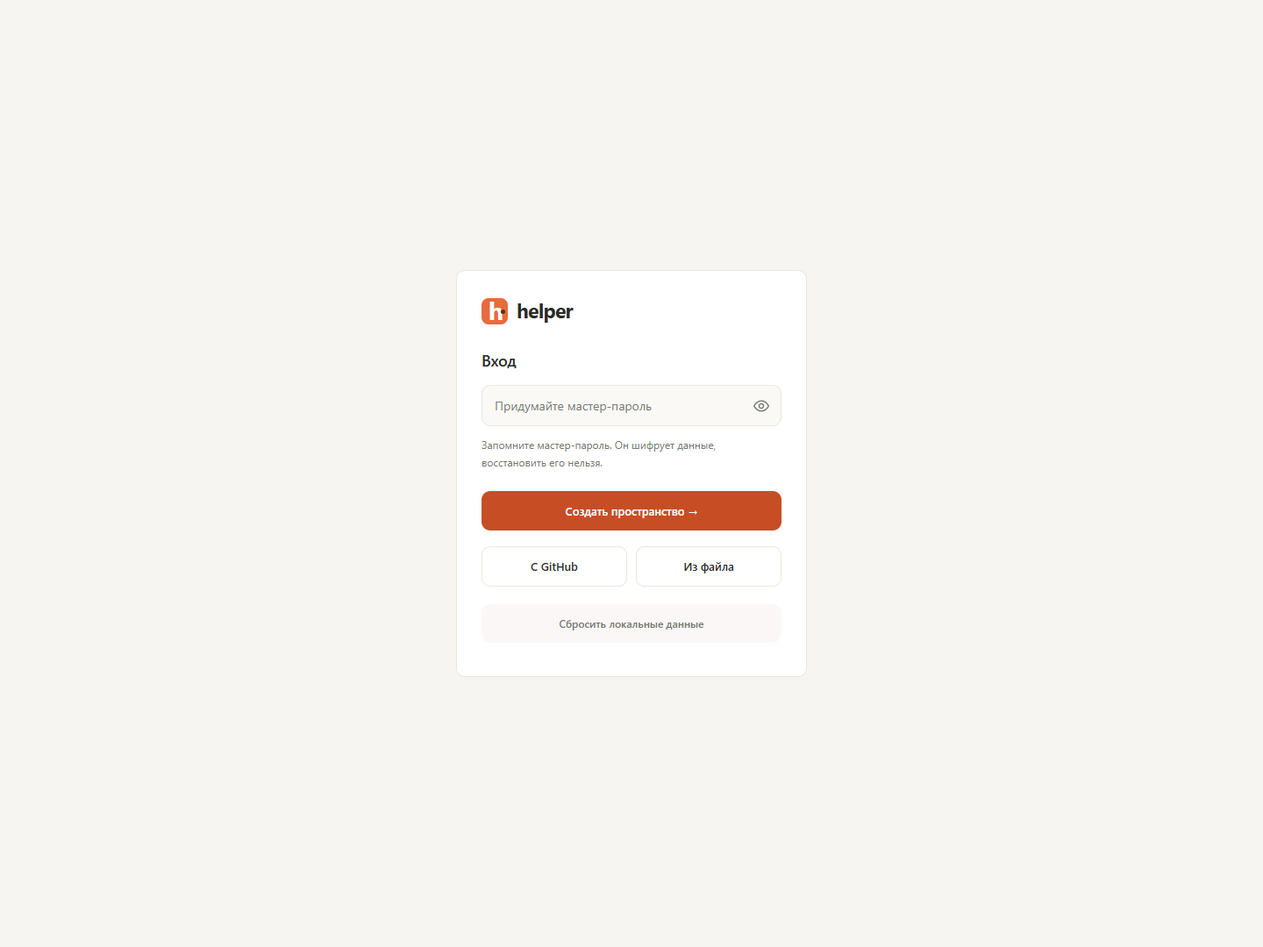
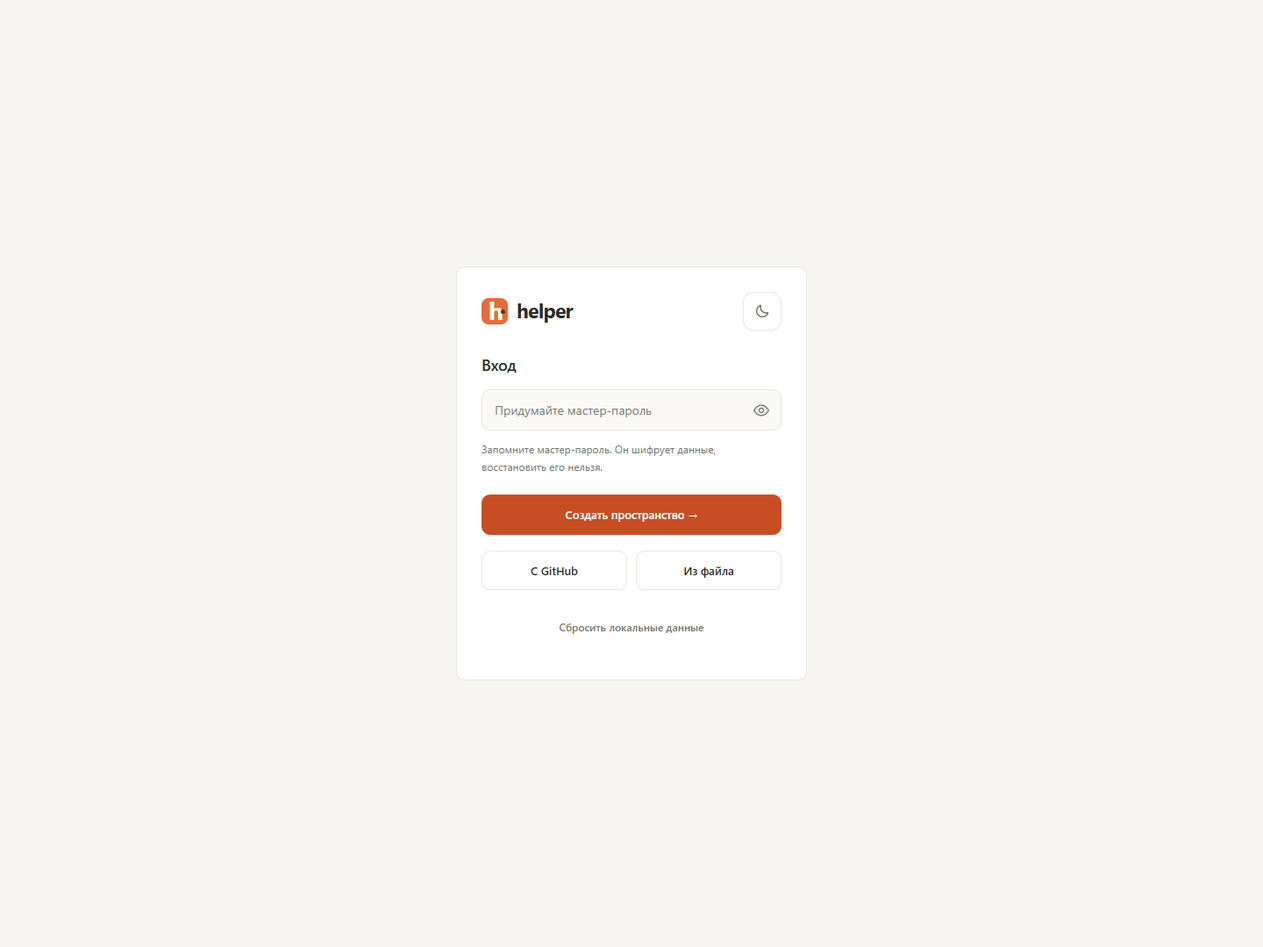
Make iPhone actions visible and expose persistent dark theme
Put health capture first on mobile, move task input before the list, put the shift calendar before optional settings, add direct expense/income entry buttons, and keep Settings save visible while scrolling. Remove dock destinations duplicated in the mobile menu and reset navigation scroll immediately.

Expose light/dark/system themes in the header and menu, apply preferences before first paint, increase primary touch targets, use iOS system typography, respect safe-area insets and hide the dock when the keyboard takes screen space.

Validated: 27 unit tests, Chromium/WebKit mobile workflows and theme persistence/system changes, 52 responsive route checks plus 39 dark mobile route checks, and cached 3.2.1-to-3.3 upgrade preserving encrypted data. Physical iPhone keyboard behavior remains a device check.

diff --git a/workspace.js b/workspace.js
@@ -22,22 +22,52 @@ let taskQuery = '';
 function workspaceHeader(id) {
     const [title] = workspacePages[id];
     const parent = id === 'food-page' || id === 'profile-page' ? ['health-page','Здоровье'] : id === 'add-vault-page' ? ['vault-page','Личный сейф'] : null;
-    return `<header class="page-heading"><div>${parent ? `<button class="parent-link" onclick="showSection('${parent[0]}')">‹ ${parent[1]}</button>` : ''}<h1 tabindex="-1">${title}</h1></div><div class="heading-actions">${id === 'dashboard-page' ? '<span class="today-chip" id="helper-greeting"></span>' : ''}<button class="icon-button mobile-search" aria-label="Поиск" onclick="openCommandPalette()">${icon('search')}</button></div></header>`;
+    return `<header class="page-heading"><div>${parent ? `<button class="parent-link" onclick="showSection('${parent[0]}')">‹ ${parent[1]}</button>` : ''}<h1 tabindex="-1">${title}</h1>${id === 'dashboard-page' ? '<span class="today-chip" id="helper-greeting"></span>' : ''}</div><div class="heading-actions"><button class="icon-button theme-toggle" data-theme-toggle aria-label="Включить тёмную тему" onclick="toggleTheme()">${icon('moon')}</button><button class="icon-button mobile-search" aria-label="Поиск" onclick="openCommandPalette()">${icon('search')}</button></div></header>`;
 }
 
 function mountWorkspace() {
-    document.getElementById('more-page').insertAdjacentHTML('beforeend', `<nav class="section-menu" aria-label="Все разделы">${[...helperRoutes,['food-page','Питание','food'],['profile-page','Цели здоровья','activity'],['export-page','Отчёты','chart'],['settings-page','Настройки','settings']].map(([id,label,glyph]) => `<button onclick="showSection('${id}')">${icon(glyph)}<span>${label}</span>${icon('arrow')}</button>`).join('')}<button onclick="lockVault()">${icon('lock')}<span>Заблокировать</span></button></nav>`);
+    document.getElementById('more-page').insertAdjacentHTML('beforeend', `<nav class="section-menu" aria-label="Дополнительные разделы">${[['settings-page','Настройки','settings'],helperRoutes[4],['food-page','Питание','food'],['profile-page','Цели здоровья','activity'],helperRoutes[5],['export-page','Отчёты','chart'],helperRoutes[6]].map(([id,label,glyph]) => `<button onclick="showSection('${id}')">${icon(glyph)}<span>${label}</span>${icon('arrow')}</button>`).join('')}<button onclick="lockVault()">${icon('lock')}<span>Заблокировать</span></button></nav>`);
     document.body.insertAdjacentHTML('beforeend', `<dialog id="metric-dialog" class="metric-dialog" aria-labelledby="metric-title"><form id="metric-form" onsubmit="saveMetricDialog(event)"><div class="section-top"><h2 id="metric-title">Вода</h2><button type="button" class="icon-button" aria-label="Закрыть" onclick="document.getElementById('metric-dialog').close()">${icon('close')}</button></div><p id="metric-date" class="helper-hint"></p><label id="metric-label" for="metric-amount">Количество, мл</label><input id="metric-amount" type="number" min="1" step="1" inputmode="numeric" required oninput="updateMetricPresets()"><div id="metric-presets" class="metric-presets" role="group" aria-label="Быстрый выбор количества"></div><p id="metric-error" class="food-status is-error" role="status"></p><button type="submit" class="btn">Добавить</button></form></dialog>`);
     for (const id of Object.keys(workspacePages)) {
         const page = document.getElementById(id);
         if (page) page.insertAdjacentHTML('afterbegin', workspaceHeader(id));
     }
+    document.querySelector('#more-page .page-heading').insertAdjacentHTML('afterend', `<section class="card theme-picker"><h2>Тема</h2><div class="segmented-control" role="group" aria-label="Оформление приложения"><button data-theme-choice="light" onclick="setAppearance('theme','light')">Светлая</button><button data-theme-choice="dark" onclick="setAppearance('theme','dark')">Тёмная</button><button data-theme-choice="system" onclick="setAppearance('theme','system')">Системная</button></div></section>`);
+    document.querySelector('.auth-wordmark').insertAdjacentHTML('beforeend', `<button class="icon-button theme-toggle" data-theme-toggle aria-label="Включить тёмную тему" onclick="toggleTheme()">${icon('moon')}</button>`);
+    // Keep the existing forms and mutation functions; only move their entry points.
+    const budget = document.getElementById('budget-page');
+    const entry = document.getElementById('tx-amount').closest('.card'); entry.id = 'budget-entry-card';
+    budget.querySelector('.page-heading').insertAdjacentHTML('afterend', `<div class="budget-entry-actions"><button class="btn" onclick="focusBudgetEntry('expense')">${icon('plus')} Расход</button><button class="btn btn-secondary" onclick="focusBudgetEntry('income')">${icon('plus')} Доход</button></div>`);
+    const calendar = document.getElementById('calendar-page');
+    const calendarCard = document.getElementById('cal-grid').closest('.card');
+    calendar.querySelector('.page-heading').after(calendarCard);
+    calendarCard.insertAdjacentHTML('beforeend','<p class="calendar-help">Нажмите на дату, чтобы изменить смену.</p>');
+    for (const [field,title] of [['t-1','Шаблон смен'],['rate-day','Ставки и расчёт дохода']]) {
+        const card = document.getElementById(field).closest('.card');
+        const details = document.createElement('details'); details.className = 'card secondary-settings';
+        details.innerHTML = `<summary>${title}</summary>`;
+        card.querySelector('h2').remove();
+        const content = document.createElement('div'); content.className = 'details-content';
+        while(card.firstChild) content.append(card.firstChild);
+        details.append(content);card.replaceWith(details);
+    }
+    const history = document.getElementById('daily-history-list').closest('.card');
+    history.classList.add('health-history');
+    document.getElementById('health-page').querySelector('.card').after(history);
+    document.querySelector('.focus-card .section-top').after(document.querySelector('.focus-form'));
+    const saveSettingsButton = document.querySelector('#settings-page > button[onclick="saveSettings()"]');
+    saveSettingsButton.classList.add('settings-save');
+    document.querySelector('#settings-page .page-heading').after(saveSettingsButton);
     document.querySelectorAll('[data-icon]').forEach(node => { node.innerHTML = icon(node.dataset.icon); });
     document.getElementById('planner-page').querySelector('.card').insertAdjacentHTML('afterbegin', `
         <div class="section-top"><h2>Мой список</h2><span class="count-badge" id="task-count">0</span></div>
         <div class="task-toolbar"><div class="segmented-control" aria-label="Фильтр задач">
         <button data-task-filter="active" onclick="setTaskFilter('active')">В работе</button><button data-task-filter="done" onclick="setTaskFilter('done')">Готово</button><button data-task-filter="all" onclick="setTaskFilter('all')">Все</button></div>
         <input id="task-search" type="search" placeholder="Найти задачу" aria-label="Найти задачу" oninput="taskQuery=this.value;renderPlanner()"></div>`);
+    const taskEntry = document.getElementById('task-input').closest('.quick-grid');
+    taskEntry.classList.add('task-entry');
+    document.querySelector('#planner-page .section-top').after(taskEntry);
+    taskEntry.querySelector('button').setAttribute('aria-label','Добавить задачу');
     document.querySelectorAll('.page > .btn').forEach(button => {
         if (/^Назад/.test(button.textContent.trim())) button.classList.add('back-link');
     });
@@ -52,6 +82,12 @@ function mountWorkspace() {
     });
     document.querySelectorAll('.input-action-btn').forEach(button => { button.innerHTML = icon('eye'); });
     document.querySelector('#add-vault-page button[onclick="showSection(\'misc-page\')"]')?.setAttribute('onclick', "showSection('vault-page')");
+}
+
+function focusBudgetEntry(type) {
+    setBudgetTxType(type);
+    document.getElementById('budget-entry-card').scrollIntoView({block:'start',behavior:'instant'});
+    document.getElementById('tx-amount').focus({preventScroll:true});
 }
 
 function getWorkspaceSummary(source, date) {

diff --git a/experience.css b/experience.css
@@ -98,11 +98,11 @@ body.is-unlocked { padding:32px 32px 48px 244px; }
 #health-page>.date-navigator { grid-column:1/-1; max-width:300px; width:100%; margin:0; }
 #health-page>.card:has(.stats-vertical) { grid-row:span 2; }
 #health-page>.card:has(#daily-history-list),#calendar-page>.card:has(#cal-grid),#settings-page>.btn { grid-column:1/-1; }
-#calendar-page>.card:has(#cal-grid) { order:1; }
-#budget-page>.budget-hero-card { grid-column:1; grid-row:2; }
-#budget-page>.card:has(#tx-amount) { grid-column:2; grid-row:2/4; }
-#budget-calendar-card { grid-column:1; grid-row:3; }
-#budget-page>.card:has(#budget-transactions-list) { grid-column:2; grid-row:4/6; }
+#calendar-page>.card:has(#cal-grid) { order:0; }
+#budget-page>.budget-hero-card { grid-column:1; grid-row:3; }
+#budget-page>#budget-entry-card { grid-column:2; grid-row:3/5; scroll-margin-top:20px; }
+#budget-calendar-card { grid-column:1; grid-row:4; }
+#budget-page>.card:has(#budget-transactions-list) { grid-column:2; grid-row:5/7; }
 #food-page,#profile-page,#add-vault-page,#export-page { max-width:760px; }
 #budget-limit-form { background:var(--bg-surface)!important; }
 .stat-bar-header>span:first-child { color:var(--text-muted)!important; }
@@ -140,6 +140,22 @@ kbd { border:1px solid var(--border); border-radius:4px; padding:2px 5px; font-s
 .auth-form .reset-link { background:none; color:var(--text-muted); font-size:12px!important; }
 .auth-form .helper-hint { font-size:12px; }
 .density-compact .card { padding:18px; }
+.theme-toggle { width:44px; height:44px; border:1px solid var(--border); border-radius:12px; background:var(--card-bg); }
+.auth-wordmark .theme-toggle { margin-left:auto; }
+.theme-picker h2 { margin-bottom:12px; }
+.theme-picker .segmented-control { margin:0; }
+.budget-entry-actions { display:flex; gap:10px; grid-column:1/-1; grid-row:2; }
+.budget-entry-actions .btn { margin:0; width:auto; min-width:144px; display:flex; align-items:center; justify-content:center; gap:8px; }
+.calendar-help { color:var(--text-muted); margin:14px 0 0; font-size:13px; }
+.secondary-settings { margin:0; }
+.secondary-settings summary { cursor:pointer; font-size:15px; font-weight:600; }
+.details-content { padding-top:18px; }
+.task-entry { margin-bottom:16px; }
+.focus-form { margin:0 0 12px; }
+.theme-picker .segmented-control button { min-height:44px; }
+.settings-save { position:sticky; top:max(8px,env(safe-area-inset-top)); z-index:20; margin:0; box-shadow:0 0 0 6px var(--bg-base); }
+.metric-dialog { max-height:calc(var(--visible-height,100dvh) - 32px); overflow-y:auto; }
+html { scroll-padding-bottom:110px; }
 @media(max-width:1050px) {
   body.is-unlocked { padding-left:228px; padding-right:20px; }
   .workspace-grid { grid-template-columns:1fr 1fr; }
@@ -148,39 +164,66 @@ kbd { border:1px solid var(--border); border-radius:4px; padding:2px 5px; font-s
   .tools-grid { grid-template-columns:1fr 1fr; }
 }
 @media(max-width:900px) {
-  body.is-unlocked { padding:24px 24px 100px; }
+  body.is-unlocked { padding:max(20px,env(safe-area-inset-top)) max(20px,env(safe-area-inset-right)) calc(100px + env(safe-area-inset-bottom)) max(20px,env(safe-area-inset-left)); }
   #helper-sidebar { display:none; }
   .mobile-search { display:inline-flex; }
   #helper-dock { position:fixed; bottom:0; left:0; right:0; z-index:50; display:flex; justify-content:space-around; border-top:1px solid var(--border); background:var(--nav-bg); padding:8px 8px max(8px,env(safe-area-inset-bottom)); }
   #helper-dock button { flex:1; display:flex; flex-direction:column; align-items:center; gap:4px; min-height:48px; border:0; border-radius:6px; background:none; color:var(--text-muted); font-size:11px; }
   #helper-dock button svg { width:19px; }
   #helper-dock .is-active { color:var(--accent); }
+  #helper-dock .is-active svg { background:var(--active-bg); border-radius:8px; box-sizing:content-box; padding:4px 14px; margin:-4px -14px; }
+  .keyboard-open #helper-dock { display:none; }
   #toast-box { bottom:90px; }
 }
 @media(max-width:620px) {
-  input,select,textarea,.focus-form input,.task-toolbar input { font-size:16px; }
+  input,select,textarea,.focus-form input,.task-toolbar input { font-size:16px!important; }
+  button,.btn,.text-button,.icon-button,.icon-btn-sm,.del-btn,.segmented-control button,.metric-presets button { min-height:44px; }
+  .icon-button,.icon-btn-sm,.del-btn { min-width:44px; }
+  .btn { padding:12px 14px; font-size:15px; }
+  .card,.budget-hero-card,.workspace-grid>.card { padding:18px 16px; border-radius:14px; }
+  .section-top { margin-bottom:14px; gap:8px; }
+  .section-top h2 { font-size:16px; }
+  .text-button { font-size:13px; }
+  .heading-actions { gap:8px; }
+  .today-chip { display:block; margin-top:2px; }
+  .parent-link { min-height:36px; padding:0 0 4px; font-size:14px; }
+  .theme-picker { padding:16px; }
   .section-menu { grid-template-columns:1fr; padding:4px 18px; }
   .health-entry-actions { grid-template-columns:1fr 1fr; }
-  body,body.is-unlocked { padding:20px 16px 100px; }
+  body,body.is-unlocked { padding:max(16px,env(safe-area-inset-top)) max(16px,env(safe-area-inset-right)) calc(96px + env(safe-area-inset-bottom)) max(16px,env(safe-area-inset-left)); }
   .page-heading { margin-bottom:20px; }
   .page-heading h1 { font-size:24px; }
   .today-chip { font-size:12px; }
   .workspace-grid { display:flex; flex-direction:column; gap:16px; }
-  .focus-card { order:0; }
-  .daily-health { order:1; }
+  .focus-card { order:1; }
+  .daily-health { order:0; }
   .rhythm-card { order:2; }
   .month-card { order:3; }
   .health-metrics { gap:16px; }
-  .quick-capture button { font-size:11px; }
+  .quick-capture { margin-top:18px; gap:6px; }
+  .quick-capture button { font-size:13px; min-height:48px; padding:8px 6px; line-height:1.3; background:var(--active-bg); border-color:transparent; color:var(--text-main); }
+  .health-metric small { font-size:12px; }
+  .health-metric>strong { font-size:28px; }
+  .focus-form button { width:44px; height:44px; flex-shrink:0; }
+  .focus-form input { padding:14px 0; }
   .task-toolbar { flex-direction:column; align-items:stretch; gap:12px; }
   .tools-grid { grid-template-columns:1fr; }
   #health-page.active,#settings-page.active,#calendar-page.active { grid-template-columns:1fr; }
   #health-page>.card:has(.stats-vertical) { grid-row:auto; }
   #budget-page.active { display:flex; flex-direction:column; gap:16px; }
   #budget-page>* { width:100%; }
+  #budget-page>.budget-entry-actions { order:0; }
+  .budget-entry-actions .btn { flex:1; min-width:0; }
   #budget-page>.card:has(#tx-amount) { order:1; }
   #budget-page>.card:has(#budget-transactions-list) { order:2; }
   #budget-calendar-card { order:3; }
   #budget-analytics-card { order:4; }
   #debts-card { order:5; }
+  .secondary-settings summary { min-height:44px; line-height:44px; }
+  .secondary-settings { padding:8px 16px; }
+  .food-actions .btn { flex:1; min-height:48px; }
+  .food-actions>.text-button:last-child { flex-basis:100%; margin:0; text-align:left; }
+  .metric-dialog { padding:20px; border-radius:18px; }
+  #helper-dock { padding-top:10px; padding-bottom:max(10px,env(safe-area-inset-bottom)); }
+  #helper-dock button { font-size:11px; min-height:48px; }
 }

diff --git a/experience.js b/experience.js
@@ -1,6 +1,8 @@
 'use strict';
 
 const helperIcons = {
+    moon: '<path d="M20 14a8 8 0 0 1-10-10 8 8 0 1 0 10 10Z"/>',
+    sun: '<circle cx="12" cy="12" r="4"/><path d="M12 2v2m0 16v2M2 12h2m16 0h2M5 5l1.5 1.5m11 11L19 19M5 19l1.5-1.5m11-11L19 5"/>',
     eye: '<path d="M2 12s4-7 10-7 10 7 10 7-4 7-10 7S2 12 2 12Z"/><circle cx="12" cy="12" r="3"/>',
     home: '<path d="m3 10 9-7 9 7v10H3z"/><path d="M9 20v-7h6v7"/>',
     wallet: '<rect x="3" y="5" width="18" height="15" rx="3"/><path d="M3 8h18m-5 5h5m-5 3h2"/>',
@@ -22,7 +24,7 @@ const helperIcons = {
 function icon(name) { return `<svg viewBox="0 0 24 24" fill="none" stroke="currentColor" stroke-width="1.7" stroke-linecap="round" stroke-linejoin="round" aria-hidden="true">${helperIcons[name] || helperIcons.grid}</svg>`; }
 const helperRoutes = [['dashboard-page','Сегодня','home'],['planner-page','Задачи','check'],['health-page','Здоровье','activity'],['budget-page','Финансы','wallet'],['calendar-page','Смены','calendar'],['vault-page','Личный сейф','lock'],['misc-page','Инструменты','grid']];
 
-const appearanceDefaults = { theme: 'light', density: 'comfortable' };
+const appearanceDefaults = { theme: 'system', density: 'comfortable' };
 const commandItems = [
     ['dashboard-page', 'Сегодня', 'Сводка дня и быстрые действия'],
     ['health-page', 'Здоровье', 'Вода, шаги, вес и история'],
@@ -57,6 +59,7 @@ function setupExperience() {
     const note = document.createElement('p'); note.className = 'helper-hint'; note.textContent = 'Запомните мастер-пароль. Он шифрует данные, восстановить его нельзя.'; input.closest('.input-with-action').after(note);
     auth.querySelector('button[onclick="resetVault()"]').classList.add('reset-link');
     mountWorkspace();
+    setupMobileViewport();
     document.getElementById('toast-box').setAttribute('role','status');
     document.querySelectorAll('input:not([aria-label]),textarea:not([aria-label]),select:not([aria-label])').forEach(field=>{if(field.placeholder && !field.labels?.length)field.setAttribute('aria-label',field.placeholder);});
     setupCommandPalette(); updateConnectionStatus();
@@ -79,7 +82,15 @@ function applyAppearance() {
     document.body.classList.toggle('density-compact', appearance.density === 'compact');
     const themeColor = document.querySelector('meta[name="theme-color"]');
     if (themeColor) themeColor.content = theme === 'light' ? '#f6f5f1' : '#191a1c';
-    document.querySelectorAll('[data-theme-choice]').forEach(button => button.classList.toggle('is-selected', button.dataset.themeChoice === appearance.theme));
+    document.querySelectorAll('[data-theme-choice]').forEach(button => {
+        button.classList.toggle('is-selected', button.dataset.themeChoice === appearance.theme);
+        button.setAttribute('aria-pressed',String(button.dataset.themeChoice === appearance.theme));
+    });
+    document.querySelectorAll('[data-theme-toggle]').forEach(button => {
+        button.innerHTML = icon(theme === 'dark' ? 'sun' : 'moon');
+        button.setAttribute('aria-label',theme === 'dark' ? 'Включить светлую тему' : 'Включить тёмную тему');
+        button.title = button.getAttribute('aria-label');
+    });
     document.querySelectorAll('[data-density-choice]').forEach(button => button.classList.toggle('is-selected', button.dataset.densityChoice === appearance.density));
 }
 
@@ -88,6 +99,25 @@ function setAppearance(key, value) {
     appearance[key] = value;
     localStorage.setItem('helperAppearance', JSON.stringify(appearance));
     applyAppearance();
+}
+
+function toggleTheme() {
+    setAppearance('theme',document.documentElement.dataset.theme === 'dark' ? 'light' : 'dark');
+}
+
+function setupMobileViewport() {
+    const viewport = window.visualViewport;
+    const update = () => {
+        const height = viewport?.height || window.innerHeight;
+        document.documentElement.style.setProperty('--visible-height',`${height}px`);
+        const editing = document.activeElement?.matches('input:not([type=checkbox]):not([type=radio]),textarea,select');
+        document.body.classList.toggle('keyboard-open',!!editing && window.innerHeight - height > 120);
+    };
+    viewport?.addEventListener('resize',update);
+    window.addEventListener('resize',update);
+    document.addEventListener('focusin',update);
+    document.addEventListener('focusout',() => requestAnimationFrame(update));
+    update();
 }
 
 function updateConnectionStatus() {

diff --git a/index.html b/index.html
@@ -2,19 +2,27 @@
 <html lang="ru">
 <head>
     <meta charset="UTF-8">
-    <meta name="viewport" content="width=device-width, initial-scale=1.0">
+    <meta name="viewport" content="width=device-width, initial-scale=1.0, viewport-fit=cover">
     <meta name="apple-mobile-web-app-capable" content="yes">
     <meta name="apple-mobile-web-app-status-bar-style" content="black-translucent">
     <meta name="theme-color" content="#f6f5f1">
     <meta name="color-scheme" content="dark light">
+    <script>
+        // Apply the saved theme before the first paint, including the lock screen.
+        try {
+            const preference = JSON.parse(localStorage.getItem('helperAppearance') || '{}').theme || 'system';
+            const dark = preference === 'dark' || (preference === 'system' && matchMedia('(prefers-color-scheme: dark)').matches);
+            document.documentElement.dataset.theme = dark ? 'dark' : 'light';
+        } catch {}
+    </script>
     <meta name="description" content="Helper — локальный личный помощник для дел, финансов, здоровья и смен.">
     <title>Helper — личное пространство</title>
     <link rel="manifest" href="manifest.json">
     <link rel="apple-touch-icon" href="icon-512.png">
     <link rel="icon" type="image/svg+xml" href="icon.svg">
     <script defer src="vendor/crypto-js.min.js"></script>
-    <link rel="stylesheet" href="styles.css?v=3.2.1">
-    <link rel="stylesheet" href="experience.css?v=3.2.1">
+    <link rel="stylesheet" href="styles.css?v=3.3">
+    <link rel="stylesheet" href="experience.css?v=3.3">
 </head>
 <body>
 
@@ -578,10 +586,10 @@
         </div>
     </div>
 
-    <script defer src="food-config.js?v=3.2.1"></script>
-    <script defer src="food-ai.js?v=3.2.1"></script>
-    <script defer src="app.js?v=3.2.1"></script>
-    <script defer src="workspace.js?v=3.2.1"></script>
-    <script defer src="experience.js?v=3.2.1"></script>
+    <script defer src="food-config.js?v=3.3"></script>
+    <script defer src="food-ai.js?v=3.3"></script>
+    <script defer src="app.js?v=3.3"></script>
+    <script defer src="workspace.js?v=3.3"></script>
+    <script defer src="experience.js?v=3.3"></script>
 </body>
 </html>

diff --git a/sw.js b/sw.js
@@ -1,15 +1,15 @@
-const CACHE_VERSION = 'helper-v3.2.1';
+const CACHE_VERSION = 'helper-v3.3';
 const PRECACHE = [
   './',
   './index.html',
   './manifest.json',
-  './styles.css?v=3.2.1',
-  './experience.css?v=3.2.1',
-  './app.js?v=3.2.1',
-  './food-config.js?v=3.2.1',
-  './food-ai.js?v=3.2.1',
-  './experience.js?v=3.2.1',
-  './workspace.js?v=3.2.1',
+  './styles.css?v=3.3',
+  './experience.css?v=3.3',
+  './app.js?v=3.3',
+  './food-config.js?v=3.3',
+  './food-ai.js?v=3.3',
+  './experience.js?v=3.3',
+  './workspace.js?v=3.3',
   './icon.svg',
   './icon-512.png',
   './vendor/crypto-js.min.js'

diff --git a/app.js b/app.js
@@ -160,7 +160,7 @@ let data = {
             }
             if (pageId === 'misc-page') renderUploads();
             if (typeof renderExperience === 'function') renderExperience(pageId);
-            window.scrollTo({ top: 0, behavior: 'smooth' });
+            window.scrollTo({ top: 0, behavior: 'instant' });
         }
 
         function unlockVault() {

diff --git a/styles.css b/styles.css
@@ -54,7 +54,7 @@ body {
   margin:0;
   background:var(--bg-base);
   color:var(--text-main);
-  font:14px/1.5 "Segoe UI",Arial,sans-serif;
+  font:14px/1.5 -apple-system,BlinkMacSystemFont,"Segoe UI",Arial,sans-serif;
   -webkit-font-smoothing:antialiased
 }
 button,input,select,textarea {

diff --git a/README.md b/README.md
@@ -1,4 +1,4 @@
-# Helper 3.2.1
+# Helper 3.3
 
 Личное пространство для задач, здоровья, смен, финансов и паролей. Спокойный интерфейс, локальное зашифрованное хранилище и работа без сети.
 
@@ -8,6 +8,9 @@
 
 ## Что изменилось
 
+- На iPhone вода, шаги и еда видны в первом блоке главной. В задачах сначала ввод, в сменах — календарь; шаблон и ставки раскрываются отдельно. В финансах есть заметные действия «Расход» и «Доход».
+- Переключение темы — кнопкой в шапке или в «Разделы → Тема». Светлая, тёмная и системная темы сохраняются между запусками и применяются до отрисовки экрана входа.
+- Увеличены основные зоны нажатия, поля не вызывают автоматическое приближение Safari. Учтены безопасные отступы iPhone, нижняя панель скрывается при открытой клавиатуре. Кнопка сохранения настроек остаётся доступна при прокрутке.
 - Компактный интерфейс без баннеров, лозунгов и повторяющихся сводок. Светлая и тёмная темы.
 - Четыре блока на главной: задачи, здоровье, смены и финансы. На телефоне меню «Разделы» открывает все функции напрямую.
 - Вода и шаги вводятся через общую форму: готовые значения или произвольное число. Запись сохраняется за явно указанную дату. В разделе здоровья все действия находятся рядом с выбором дня.
@@ -23,6 +26,7 @@
 
 ![На телефоне](docs/screenshots/today-mobile.png)
 ![Тёмная тема](docs/screenshots/today-dark.png)
+![Тёмная тема на iPhone](docs/screenshots/today-mobile-dark.png)
 
 </details>
 
@@ -75,6 +79,7 @@ npm run check
 node tests/browser.cjs
 node tests/food-browser.cjs
 node tests/food-gateway-browser.cjs
+node tests/mobile-ui.cjs
 ```
 
 Можно указать `HELPER_URL`, `PLAYWRIGHT_MODULE` и `CHROME_PATH`; `HELPER_BROWSER=webkit` выбирает WebKit. Браузерный тест использует отдельные временные профили, проверяет основные операции, произвольный объём воды, импорт бэкапа, блокировку и все экраны на ширинах 320, 390, 768 и 1440 px. Офлайн-навигация проверяется в Chromium: Windows WebKit в этом сценарии завершает переход внутренней ошибкой движка. WebKit на Windows не заменяет проверку на физическом iPhone. Скриншоты документации снимаются с пустым хранилищем.
